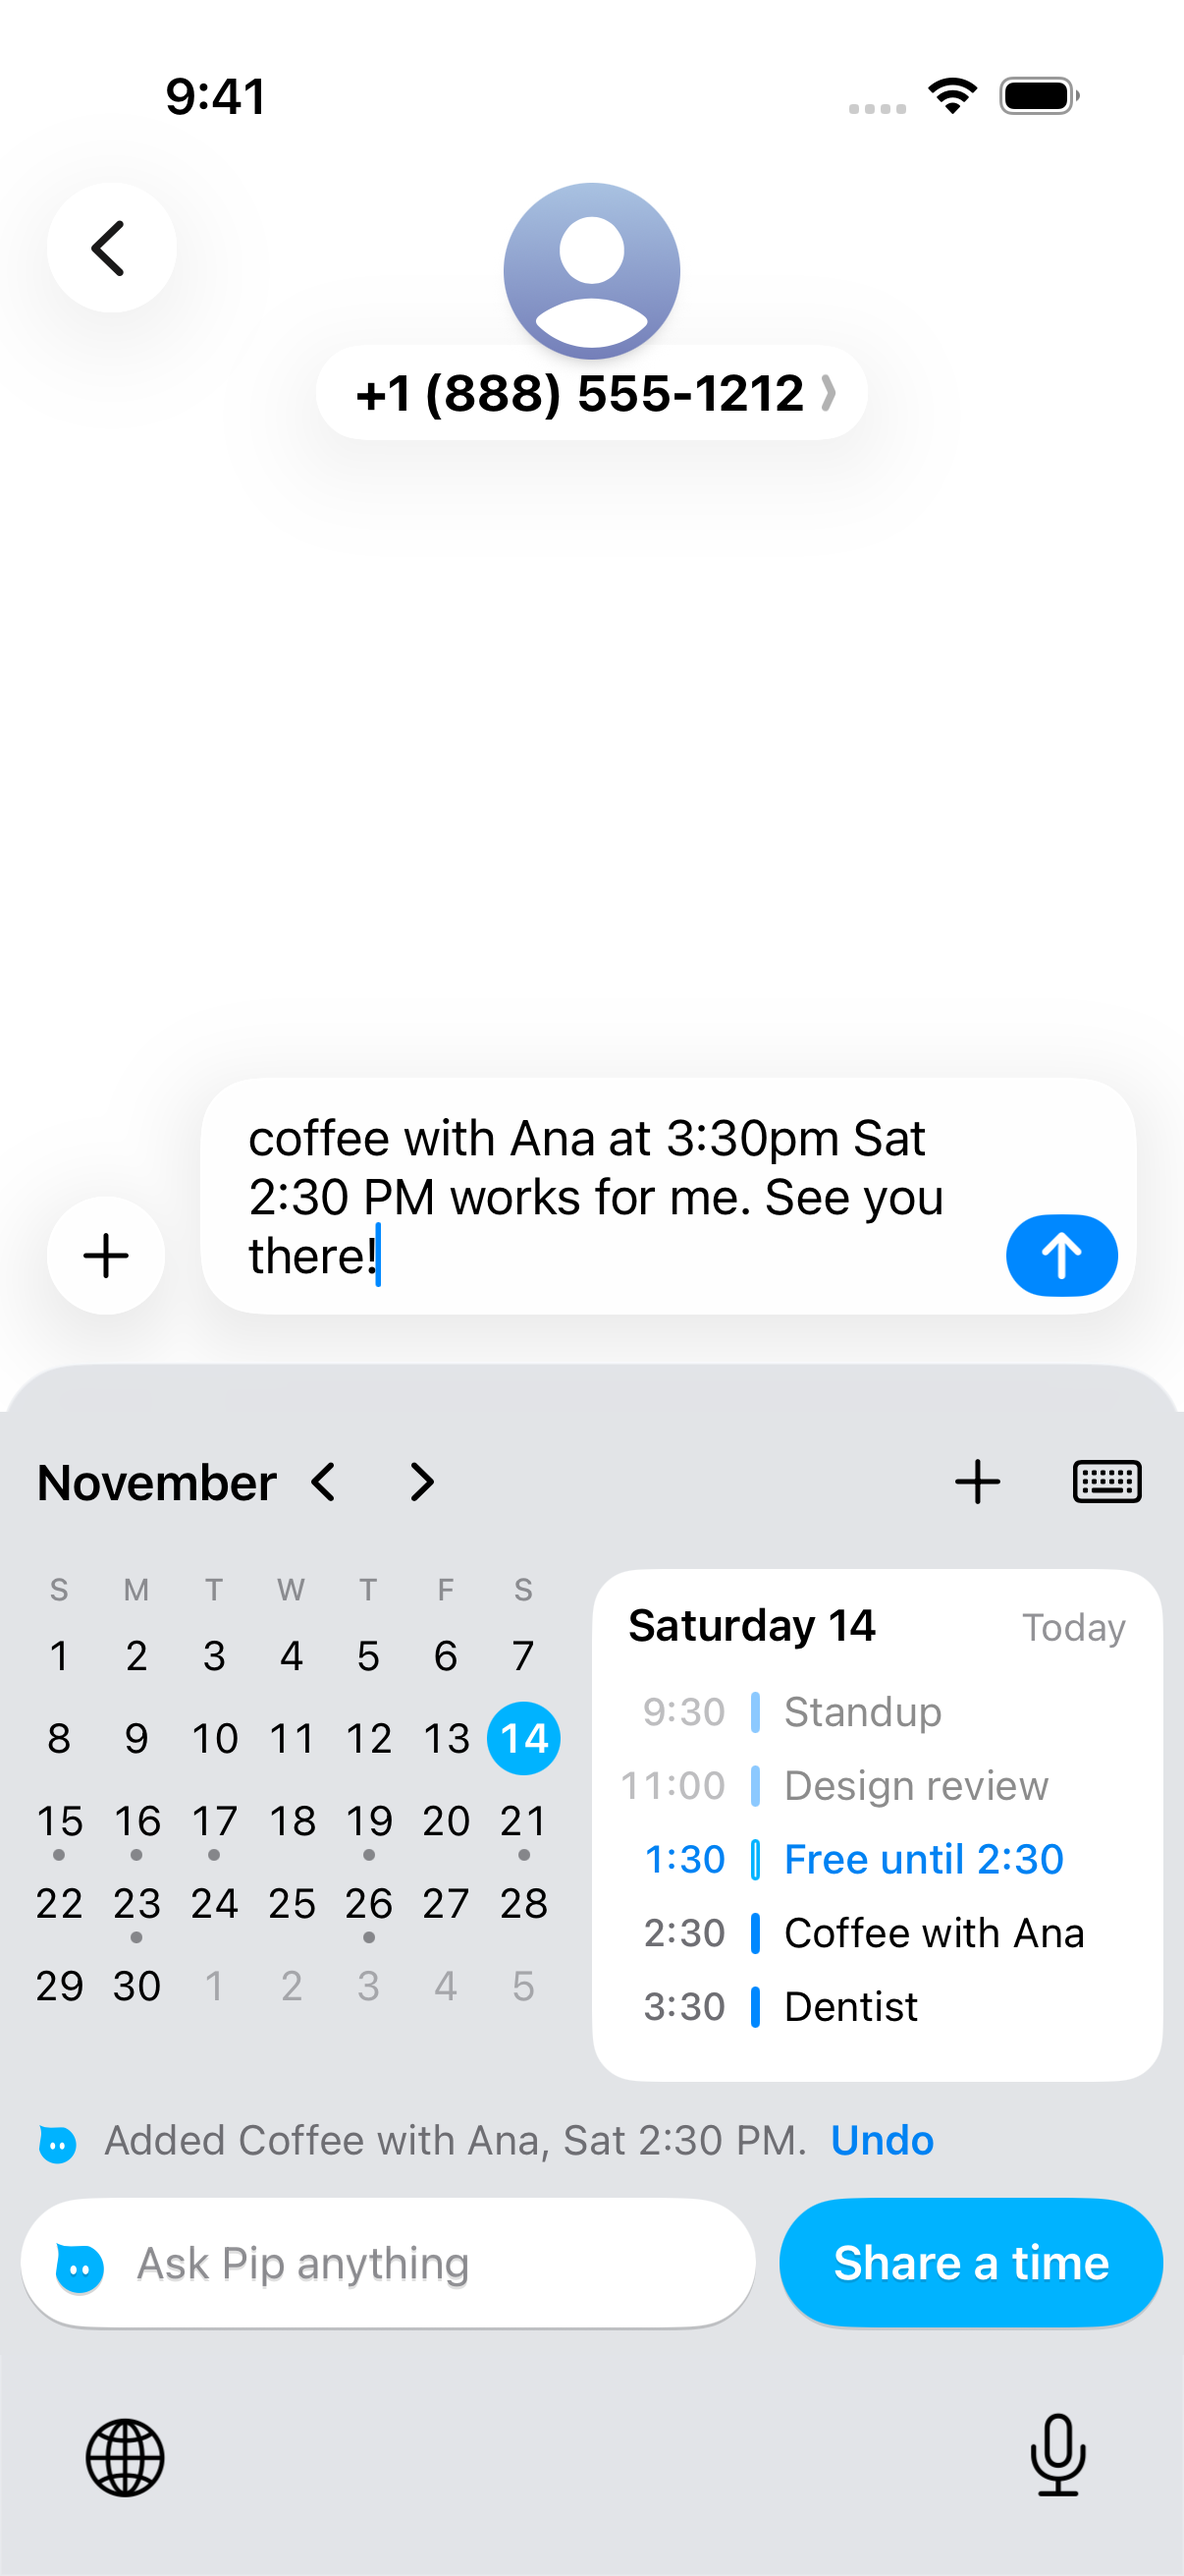
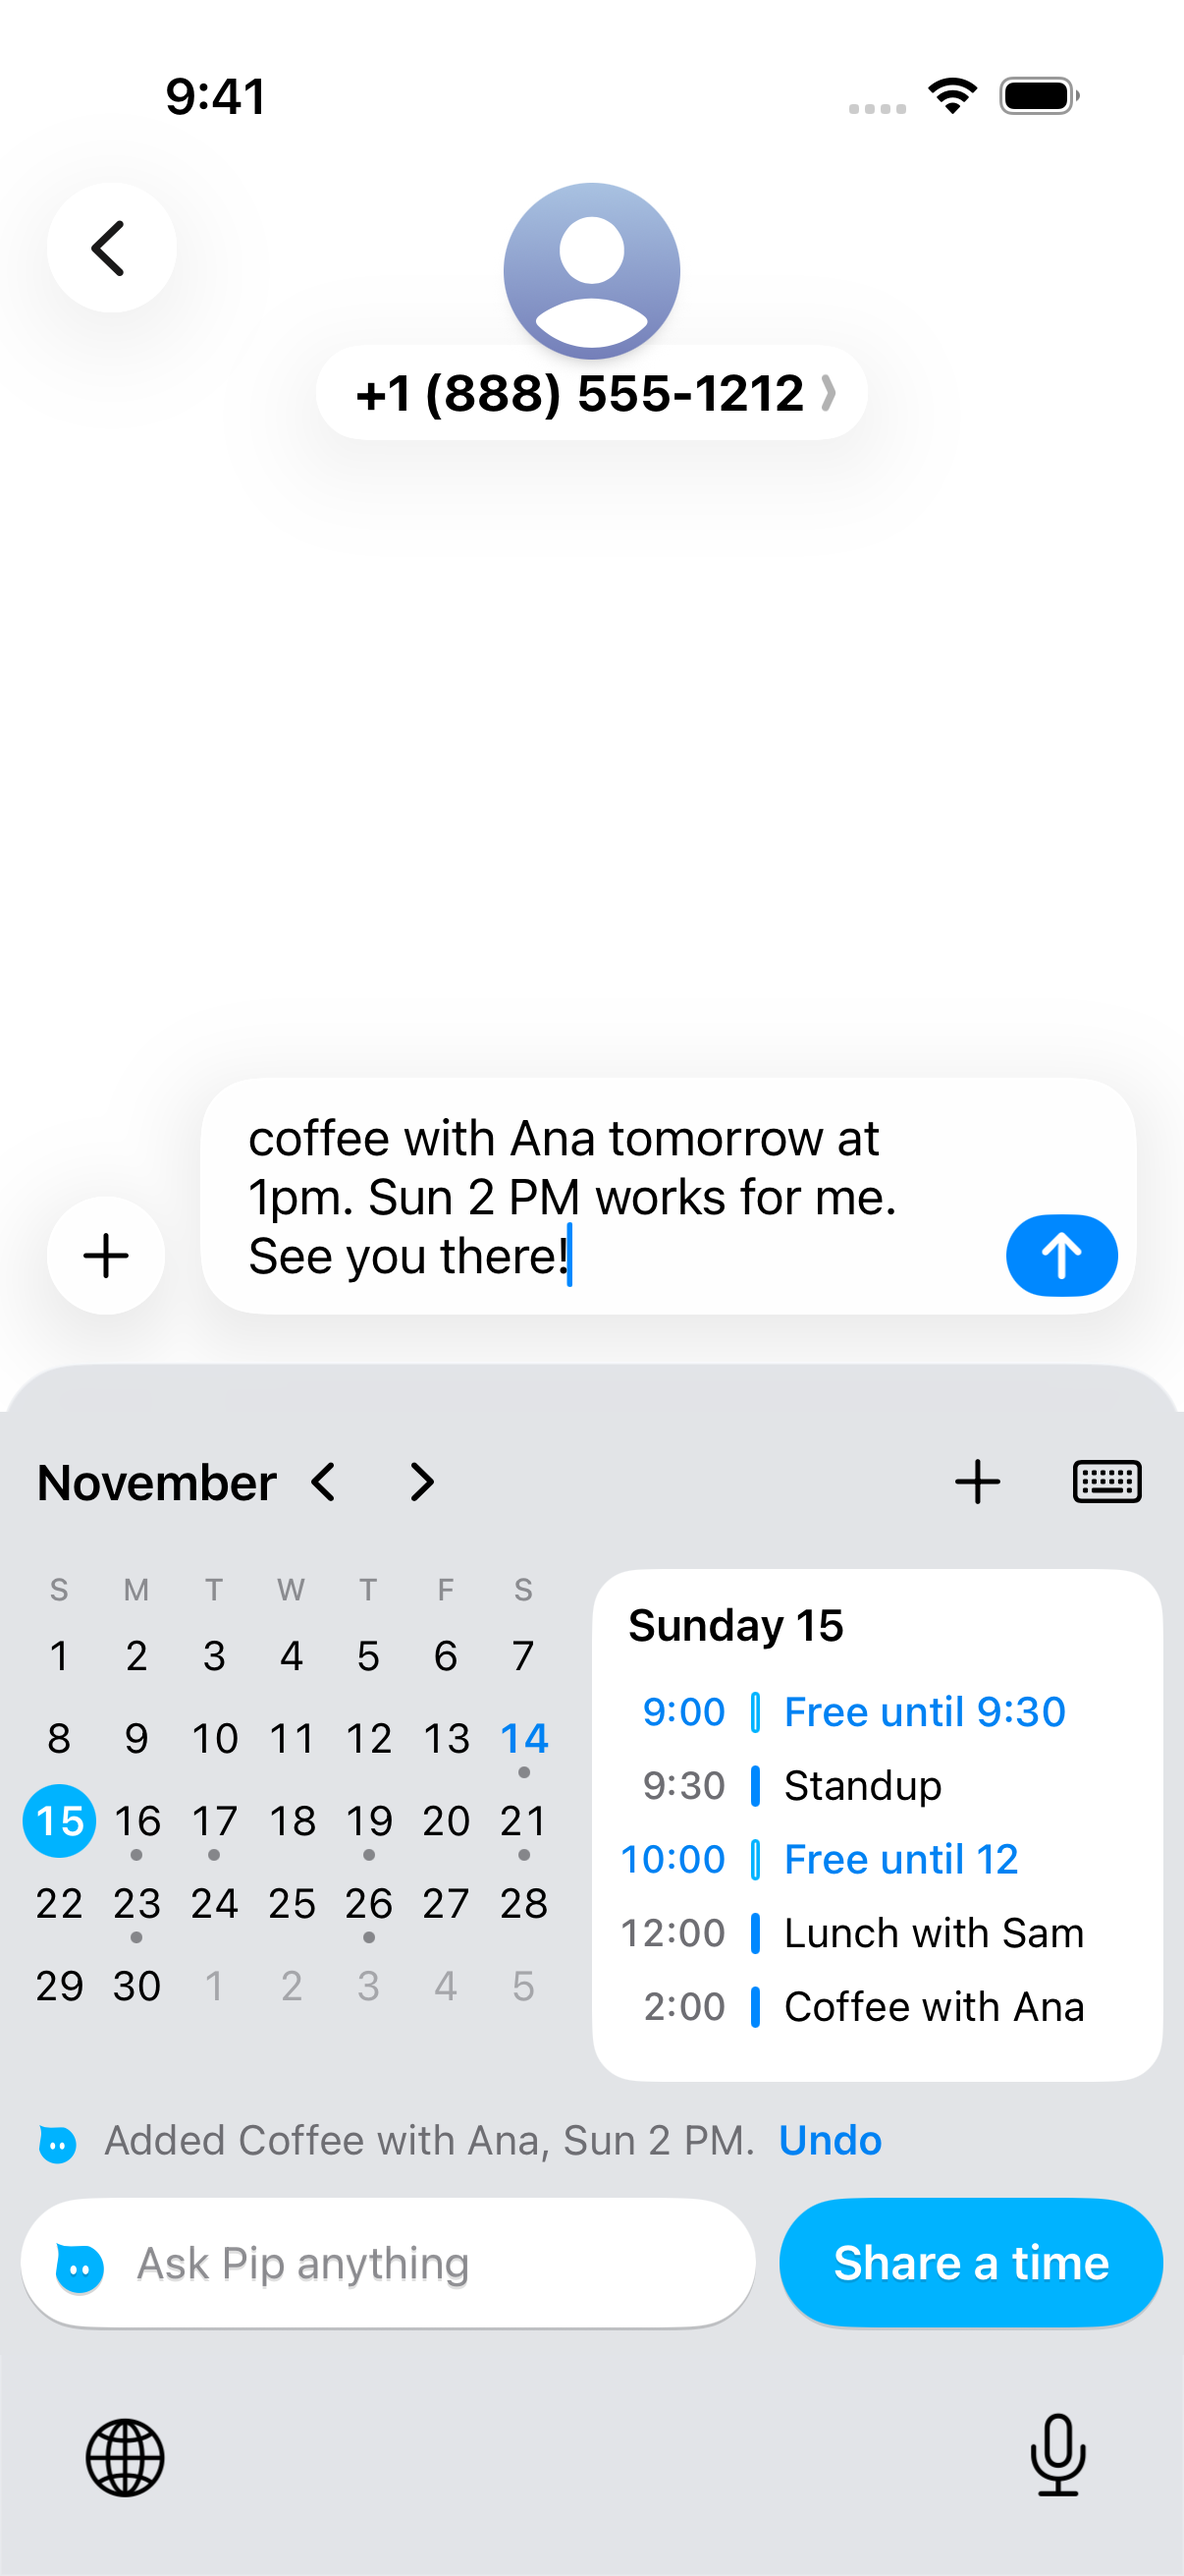
Calendar panel: confirm line as its own sentence, globe on the SE, Today opens the panel
- "Also add to your message" closes a typed plan with a full stop before the confirm
  line ("...at 1pm. Sun 2 PM works for me."); Undo puts the text back exactly.
- The calendar bar shows the globe when iOS asks for one (needsInputModeSwitchKey).
- The Today chip opens the calendar panel on today.
- Calendar shots use tomorrow's seeded lunch, so the clash shows at any hour.

Claude-Session: https://claude.ai/code/session_01XP7ZkeQe2FTSggj9dRU5ps

diff --git a/ios/Shared/KeyboardModel+Calendar.swift b/ios/Shared/KeyboardModel+Calendar.swift
@@ -38,6 +38,8 @@ struct CalendarDone: Equatable {
     let item: SmartAdded.Item
     /// The words Add also put in the message, so Undo can take them out.
     let inserted: String?
+    /// The spaces Add took off the end of the message to close the typed plan with a full stop. Undo puts them back.
+    var dropped = ""
 }
 
 extension KeyboardModel {
@@ -150,18 +152,21 @@ extension KeyboardModel {
             return
         }
         var inserted: String?
+        var dropped = ""
         if e.alsoMessage {
-            let before = host?.contextBeforeInput ?? ""
-            let text = (before.isEmpty || before.last?.isWhitespace == true ? "" : " ") + e.message
+            let join = CalendarPlan.newSentence(after: host?.contextBeforeInput ?? "")
+            for _ in 0..<join.drop.count { host?.deleteBackward() }
+            let text = join.prefix + e.message
             host?.insert(text)
             inserted = text
+            dropped = join.drop
             updateAutoShift()
         }
         c.screen = .month
         c.selected = cal.startOfDay(for: e.when.start)
         c.month = firstOfMonth(e.when.start)
         c.done = CalendarDone(line: "Added \(e.title), \(CalendarPlan.day(e.when.start, now: deps.now(), cal: cal)) \(CalendarPlan.clock(e.when.start, cal: cal, meridiem: true)).",
-                              item: .event(id), inserted: inserted)
+                              item: .event(id), inserted: inserted, dropped: dropped)
         calendar = c
         loadCalendar()
         startCalendarUndoWindow()
@@ -189,6 +194,7 @@ extension KeyboardModel {
         }
         if let text = d.inserted, (host?.contextBeforeInput ?? "").hasSuffix(text) {
             for _ in 0..<text.count { host?.deleteBackward() }
+            if !d.dropped.isEmpty { host?.insert(d.dropped) }
             updateAutoShift()
         }
         calendar?.done = nil

diff --git a/ios/Tests/CalendarTests.swift b/ios/Tests/CalendarTests.swift
@@ -24,6 +24,18 @@ final class CalendarPlanTests: XCTestCase {
          ev("Gym", 17, 18, 0, 19, 0), ev("Lunch", 18, 12, 0, 14, 0)]
     }
 
+    // MARK: joining the confirm line
+
+    func testConfirmLineStartsANewSentence() {
+        XCTAssertTrue(CalendarPlan.newSentence(after: "") == ("", ""))
+        XCTAssertTrue(CalendarPlan.newSentence(after: "coffee at 3pm") == ("", ". "))
+        XCTAssertTrue(CalendarPlan.newSentence(after: "coffee at 3pm  ") == ("  ", ". "))
+        XCTAssertTrue(CalendarPlan.newSentence(after: "Sounds good.") == ("", " "))
+        XCTAssertTrue(CalendarPlan.newSentence(after: "Sounds good! ") == ("", ""))
+        XCTAssertTrue(CalendarPlan.newSentence(after: "Sure,") == ("", " "))
+        XCTAssertTrue(CalendarPlan.newSentence(after: "coffee at 3pm\n") == ("", ""))
+    }
+
     // MARK: free gaps
 
     func testFreeGapsBetweenEventsInWorkingHours() {
@@ -204,6 +216,17 @@ final class CalendarModelTests: XCTestCase {
         XCTAssertEqual(writer.events.count, 0)
         XCTAssertEqual(host.text, "Sounds good.")
         XCTAssertNil(model.calendar?.done)
+    }
+
+    func testConfirmLineAfterATypedPlanIsItsOwnSentenceAndUndoRestoresThePlan() {
+        host.text = "coffee with Ana at 3:30pm "
+        model.openCalendar()
+        model.startNewEvent()
+        guard case .newEvent(let e)? = model.calendar?.screen else { return XCTFail("no new event screen") }
+        model.addNewEvent()
+        XCTAssertEqual(host.text, "coffee with Ana at 3:30pm. " + e.message)
+        model.undoCalendarDone()
+        XCTAssertEqual(host.text, "coffee with Ana at 3:30pm ")
     }
 
     func testUntickedMessageAddsOnlyTheEvent() {

diff --git a/ios/Shared/Engine/CalendarPlan.swift b/ios/Shared/Engine/CalendarPlan.swift
@@ -104,6 +104,16 @@ enum CalendarPlan {
         "\(day(start, now: now, cal: cal)) \(clock(start, cal: cal, meridiem: true)) works for me. See you there!"
     }
 
+    /// How the confirm line joins what is already typed, as its own sentence. "coffee with Ana at 3:30pm " drops the
+    /// space and gets ". "; after a stop, comma or emoji, a space; at the start or after a new line, nothing.
+    static func newSentence(after before: String) -> (drop: String, prefix: String) {
+        guard let last = before.last(where: { !$0.isWhitespace }) else { return ("", "") }
+        let tail = String(before.reversed().prefix { $0.isWhitespace && !$0.isNewline }.reversed())
+        if before.dropLast(tail.count).last?.isNewline == true { return ("", "") }
+        if !(last.isLetter || last.isNumber) { return ("", tail.isEmpty ? " " : "") }
+        return (tail, ". ")
+    }
+
     /// "Tue 17, 3:30-4:30 PM"
     static func whenText(_ i: DateInterval, cal: Calendar) -> String {
         format("EEE d", i.start, cal) + ", " + range(i, cal: cal)

diff --git a/ios/Shared/CalendarPanelView.swift b/ios/Shared/CalendarPanelView.swift
@@ -22,6 +22,7 @@ struct CalendarPanelView: View {
 }
 
 /// The bar while the calendar is open: the month and its arrows, + and the keys; or Back and the screen's name.
+/// The globe joins them when iOS draws none (Home button phones such as the SE).
 struct CalendarBar: View {
     @ObservedObject var model: KeyboardModel
     let panel: CalendarPanel
@@ -45,6 +46,9 @@ struct CalendarBar: View {
                 Text(isShare ? "Share a time" : "New event").font(.system(size: 17, weight: .semibold)).foregroundStyle(palette.label)
                     .accessibilityAddTraits(.isHeader)
                 Spacer(minLength: 0)
+            }
+            if model.host?.needsGlobeKey == true {
+                icon("globe", id: "calendar.globe", label: "Next keyboard") { model.host?.nextKeyboard() }
             }
             icon("keyboard", id: "calendar.close", label: "Keyboard") { model.toggleCalendar() }
         }

diff --git a/ios/Shared/KeyboardModel.swift b/ios/Shared/KeyboardModel.swift
@@ -1449,7 +1449,7 @@ final class KeyboardModel: ObservableObject {
         case .openCalm: openCalmOffer()
         case .smart(let chip): tapSmart(chip)
         case .undoSmart: undoSmart()
-        case .today: showToday()
+        case .today: openCalendar()
         case .notes: toggleNotes()
         case .explain: openExplainCard()
         }
@@ -1527,11 +1527,6 @@ final class KeyboardModel: ObservableObject {
         }
         smartDone = smartDone.filter { !$0.sameReading(as: a.chip) }
         if !smart.contains(a.chip) { smart.insert(a.chip, at: 0) }
-    }
-
-    /// "9:20 Dentist · 11:00 Lunch with Ana", from the snapshot the app wrote.
-    private func showToday() {
-        bar = .done(appointments.isEmpty ? "Nothing on your calendar today" : appointments.map { "\($0.time) \($0.title)" }.joined(separator: " \u{00B7} "))
     }
 }
 

diff --git a/ios/Tests/SmartChipsModelTests.swift b/ios/Tests/SmartChipsModelTests.swift
@@ -167,7 +167,7 @@ final class SmartChipsModelTests: XCTestCase {
         XCTAssertEqual(api.calls, [])
     }
 
-    func testTodayChipListsTheEvents() async {
+    func testTodayChipOpensTheCalendarOnToday() async {
         let now = clock.now
         store.appointments = [Appointment(start: now - 7200, end: now - 3600, title: "Dentist")]
         host.text = "hi"
@@ -175,7 +175,7 @@ final class SmartChipsModelTests: XCTestCase {
         host.text = ""
         model.textChanged()
         model.perform(item("today")!.action!)
-        guard case .done(let line) = model.bar else { return XCTFail("expected a line, got \(model.bar)") }
-        XCTAssertTrue(line.hasSuffix("Dentist"), line)
+        XCTAssertEqual(model.calendar?.selected, Calendar.current.startOfDay(for: now))
+        XCTAssertEqual(model.calendar?.screen, .month)
     }
 }

diff --git a/ios/UITests/CalendarShots.swift b/ios/UITests/CalendarShots.swift
@@ -154,7 +154,8 @@ final class CalendarShots: XCTestCase {
         shot("share-inserted")
         clear(field)
 
-        paste("coffee with Ana at 3:30pm", into: field)
+        // Tomorrow's seeded lunch (12-2), so the clash shows at any hour of the day.
+        paste("coffee with Ana tomorrow at 1pm", into: field)
         element(messages, "space").tap()
         wait("calendar.toggle").tap()
         wait("calendar.add").tap()
